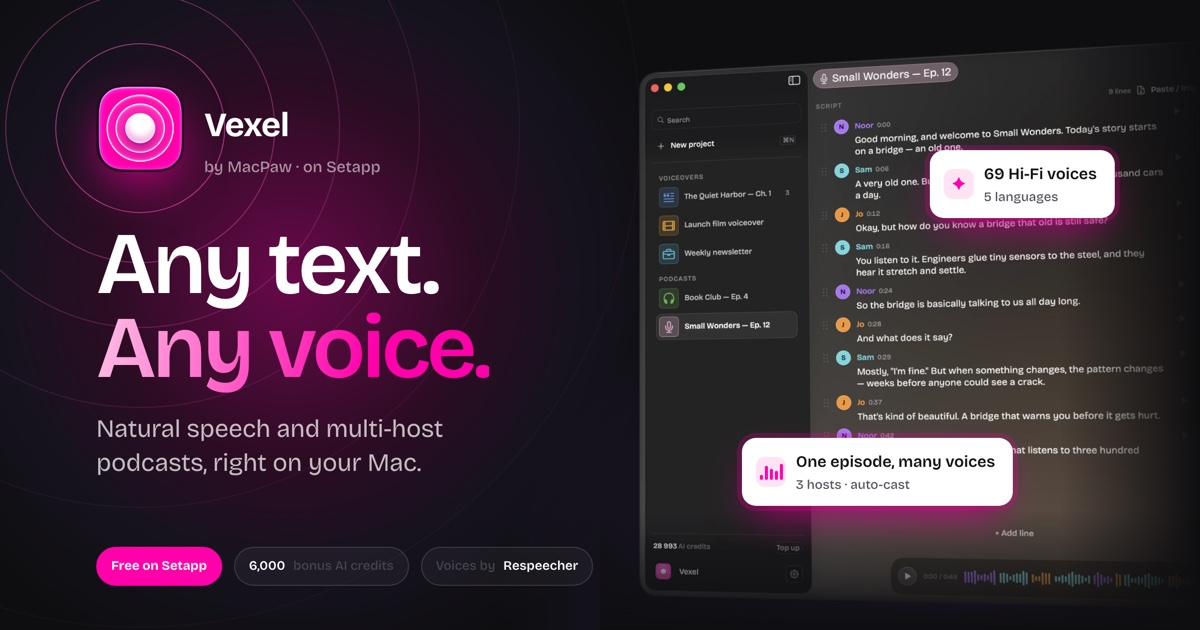
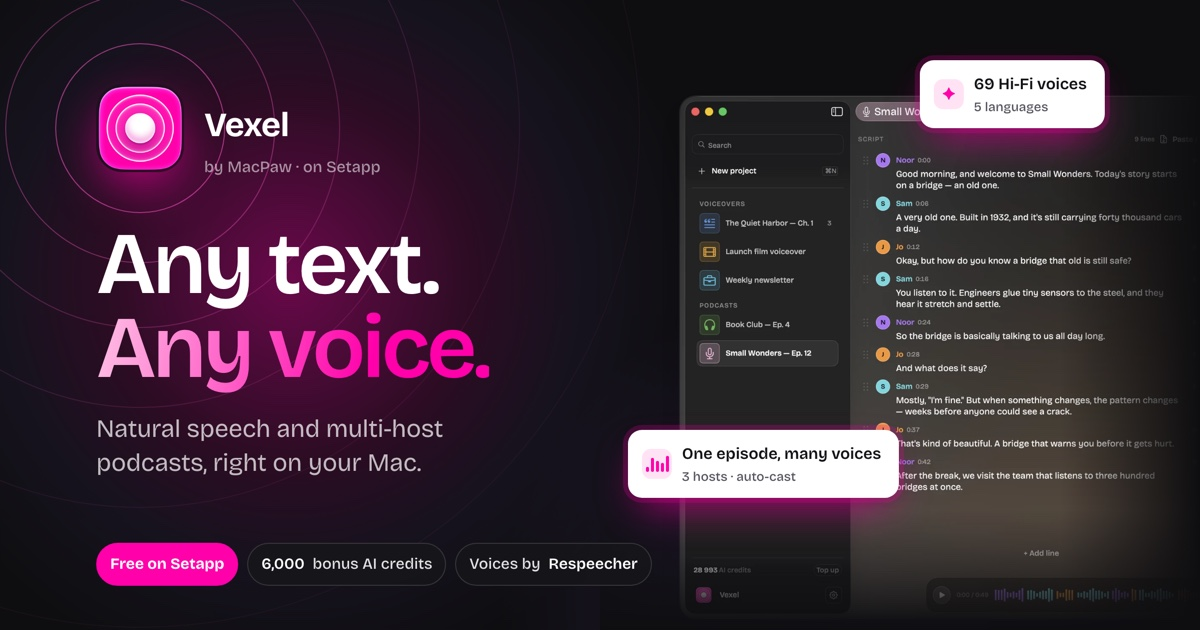
style: OG image with straight screenshot and readable tags

Changed region(s): [[0.0925, 0.0603, 0.9867, 0.9651], [0.8017, 0.8746, 0.9558, 0.9651], [0.8325, 0.8444, 0.8633, 0.8746]]

diff --git a/og-source.html b/og-source.html
@@ -18,12 +18,15 @@
   .sub { margin-top: 22px; font-size: 25px; line-height: 1.35; color: rgba(255,255,255,.72); letter-spacing: -.01em; }
   .meta { position: absolute; left: 96px; bottom: 44px; display: flex; gap: 12px; align-items: center; font-size: 17px; color: rgba(255,255,255,.66); }
   .meta b { color: #fff; font-weight: 600; }
+  .meta .chip { color: rgba(255,255,255,.88); font-size: 15.5px; min-height: 0; padding: 8px 13px; background: rgba(22,22,25,.92); }
+  .meta { gap: 9px !important; }
+  .meta .chip--pink { background: #FF00AA; border-color: #FF00AA; color: #fff; }
   .chip { padding: 8px 14px; border-radius: 999px; border: 1px solid rgba(255,255,255,.14); background: rgba(255,255,255,.04); }
   .chip--pink { background: #FF00AA; border-color: #FF00AA; color: #fff; font-weight: 700; }
   .wordmark { position: absolute; left: 204px; top: 98px; font-size: 34px; font-weight: 700; letter-spacing: -.02em; }
   .wordmark small { display: block; font-size: 16px; font-weight: 500; color: rgba(255,255,255,.55); letter-spacing: 0; margin-top: 2px; }
   /* tilted app window on the right */
-  .shot { position: absolute; left: 640px; top: 70px; width: 760px; transform: perspective(1600px) rotateY(-14deg) rotateX(4deg) rotate(-1deg); transform-origin: left center; }
+  .shot { position: absolute; left: 680px; top: 96px; width: 760px; }
   .shot img { width: 100%; border-radius: 16px; display: block; box-shadow: 0 40px 90px -20px rgba(0,0,0,.8), 0 0 0 1px rgba(255,255,255,.1); }
   .frame { position: absolute; inset: -9px; border-radius: 22px; padding: 1px; background: linear-gradient(180deg, rgba(255,120,210,.95), rgba(255,0,170,.3) 20%, rgba(255,255,255,.06) 60%, transparent);
     -webkit-mask: linear-gradient(#000 0 0) content-box, linear-gradient(#000 0 0); -webkit-mask-composite: xor; mask-composite: exclude; }
@@ -43,8 +46,8 @@
   </div>
   <div class="shot"><div class="frame"></div><img src="assets/shots/hero-podcast-1800.webp" alt=""></div>
   <div class="fade"></div><div class="fadeb"></div>
-  <span class="pill" style="left:742px; top:438px"><span class="dot"><span class="eq"><i style="height:40%"></i><i style="height:90%"></i><i style="height:60%"></i><i style="height:100%"></i><i style="height:50%"></i></span></span><span>One episode, many voices<small>3 hosts · auto-cast</small></span></span>
-  <span class="pill" style="left:930px; top:150px"><span class="dot">✦</span><span>69 Hi-Fi voices<small>5 languages</small></span></span>
+  <span class="pill" style="left:628px; top:430px"><span class="dot"><span class="eq"><i style="height:40%"></i><i style="height:90%"></i><i style="height:60%"></i><i style="height:100%"></i><i style="height:50%"></i></span></span><span>One episode, many voices<small>3 hosts · auto-cast</small></span></span>
+  <span class="pill" style="left:920px; top:60px"><span class="dot">✦</span><span>69 Hi-Fi voices<small>5 languages</small></span></span>
   <img class="icon" src="assets/img/app-icon-256.png" alt="">
   <div class="wordmark">Vexel<small>by MacPaw · on Setapp</small></div>
   <div class="copy">
